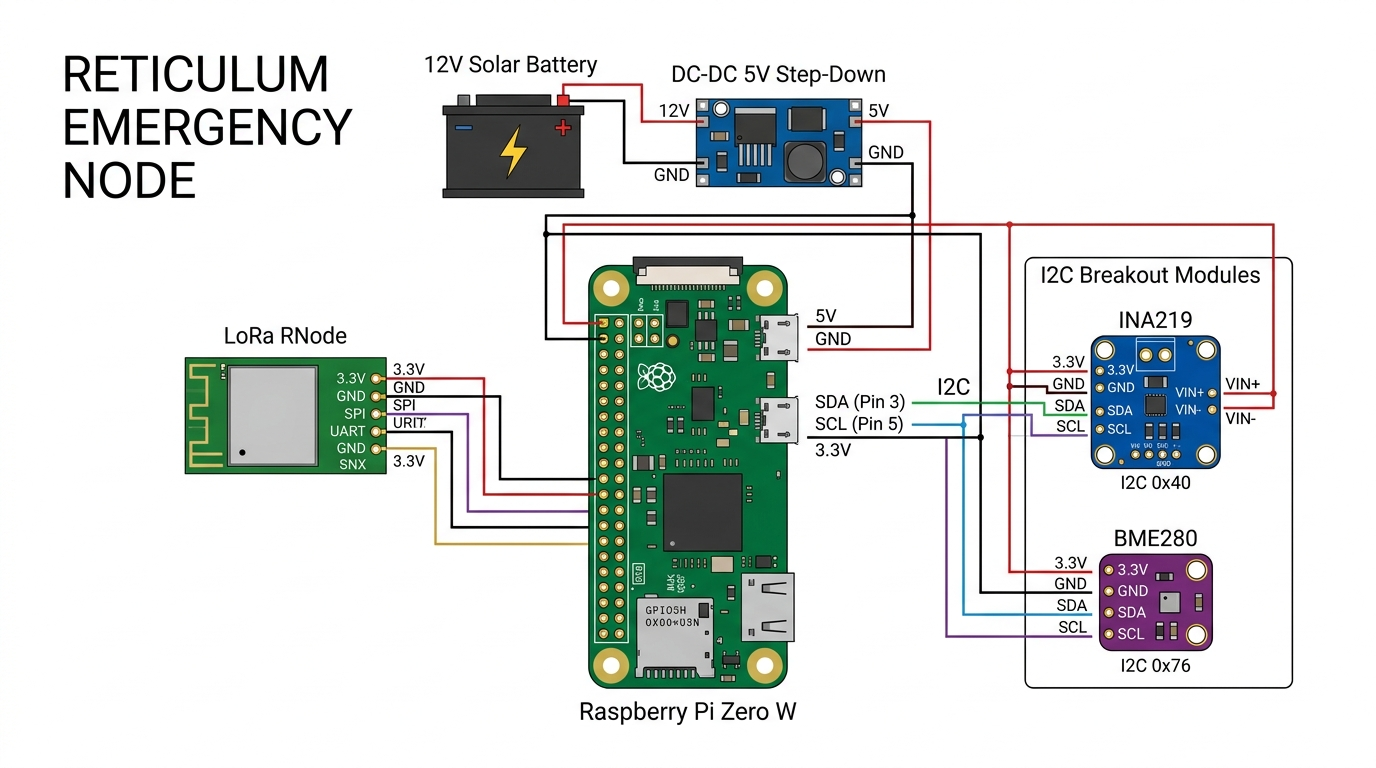
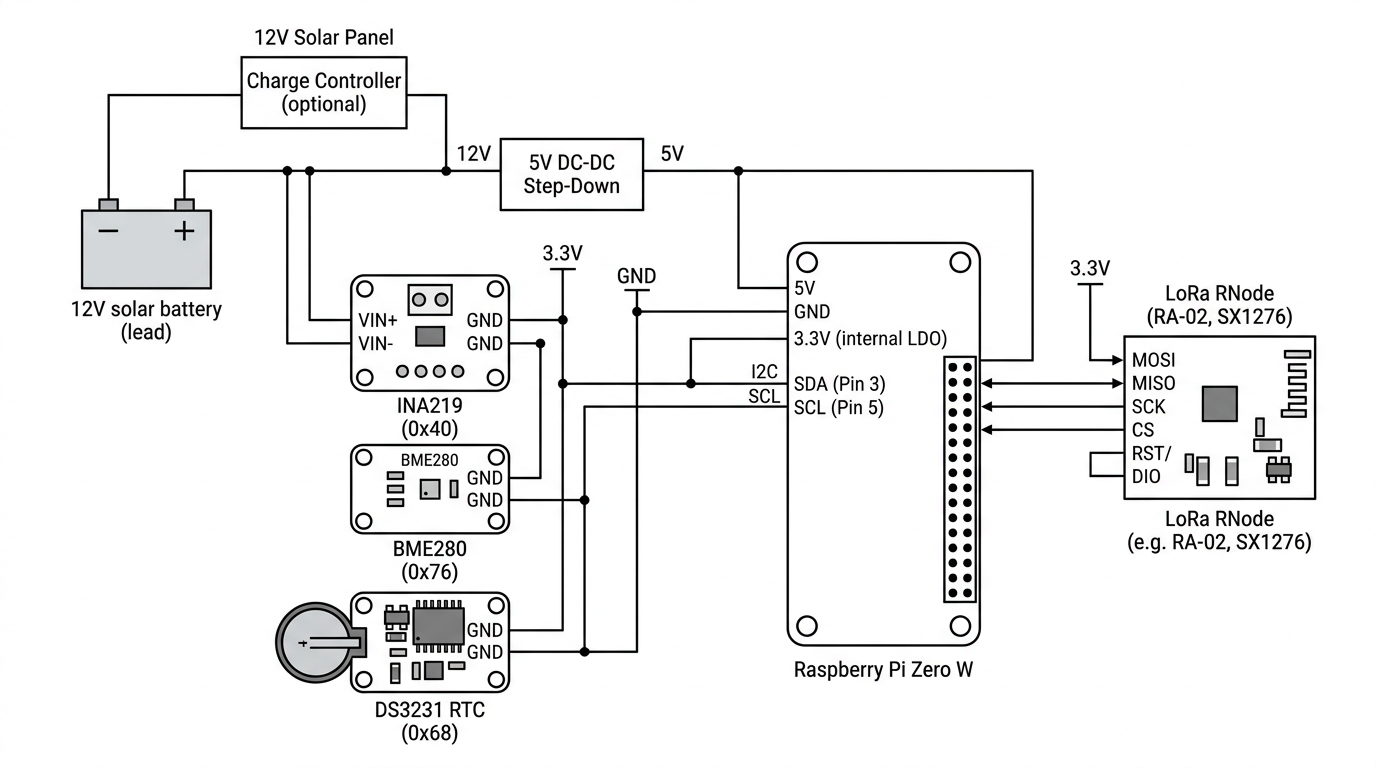
Incluir modulo de reloj RTC DS3231 en el esquema grafico y documentacion de pinout I2C

Changed region(s): [[0.0312, 0.0312, 0.9688, 0.9688]]

diff --git a/docs/HARDWARE_PINOUTS.md b/docs/HARDWARE_PINOUTS.md
@@ -52,17 +52,17 @@ Si se conecta un módulo transceptor LoRa UART directo (o microcontrolador RNode
 
 ---
 
-## 3. Conexión de Sensores I2C (Batería INA219 y Barómetro BME280)
+## 3. Conexión de Módulos I2C en Paralelo (Batería INA219, Clima BME280 y Reloj RTC DS3231)
 
-Los sensores **INA219** (monitor de batería solar) y **BME280/BMP280** (presión barométrica y clima) funcionan simultáneamente conectados **en paralelo al mismo bus I2C** del microcomputador.
+Los módulos **INA219** (monitor de batería solar), **BME280/BMP280** (barómetro y clima) y **DS3231** (reloj en tiempo real RTC para sincronización offline) funcionan simultáneamente conectados **en paralelo al mismo bus I2C (Pines 1, 3, 5 y 6)** del microcomputador sin interferencias.
 
 <p align="center">
-  <img src="img/i2c_sensors_wiring.jpg" alt="Diagrama de Conexión de Sensores I2C en Paralelo, Batería Solar y SBC" width="850" style="max-width:100%; border-radius:8px; box-shadow: 0 4px 20px rgba(0,0,0,0.4);">
+  <img src="img/i2c_sensors_wiring.jpg" alt="Diagrama de Conexión de Sensores I2C en Paralelo, RTC DS3231, Batería Solar y SBC" width="850" style="max-width:100%; border-radius:8px; box-shadow: 0 4px 20px rgba(0,0,0,0.4);">
   <br>
-  <em>Diagrama de conexión completo: Batería Solar 12V, Sensor de Batería INA219, Sensor Ambiental BME280/BMP280 en paralelo I2C, Regulador Step-Down 5V, MicroPC SBC y Radio LoRa RNode.</em>
+  <em>Diagrama de conexión completo: Batería Solar 12V, Regulador Step-Down 5V, Raspberry Pi Zero W, Radio LoRa RNode y los 3 módulos I2C en paralelo (INA219 0x40, BME280 0x76 y RTC DS3231 0x68).</em>
 </p>
 
-### A. Pines Lógicos I2C (Hacia el SBC para INA219 y BME280)
+### A. Pines Lógicos I2C (Hacia el SBC para INA219, BME280 y RTC DS3231)
 
 Conecta los 4 pines de control del módulo INA219 a los pines GPIO de tu microcomputador:
 
